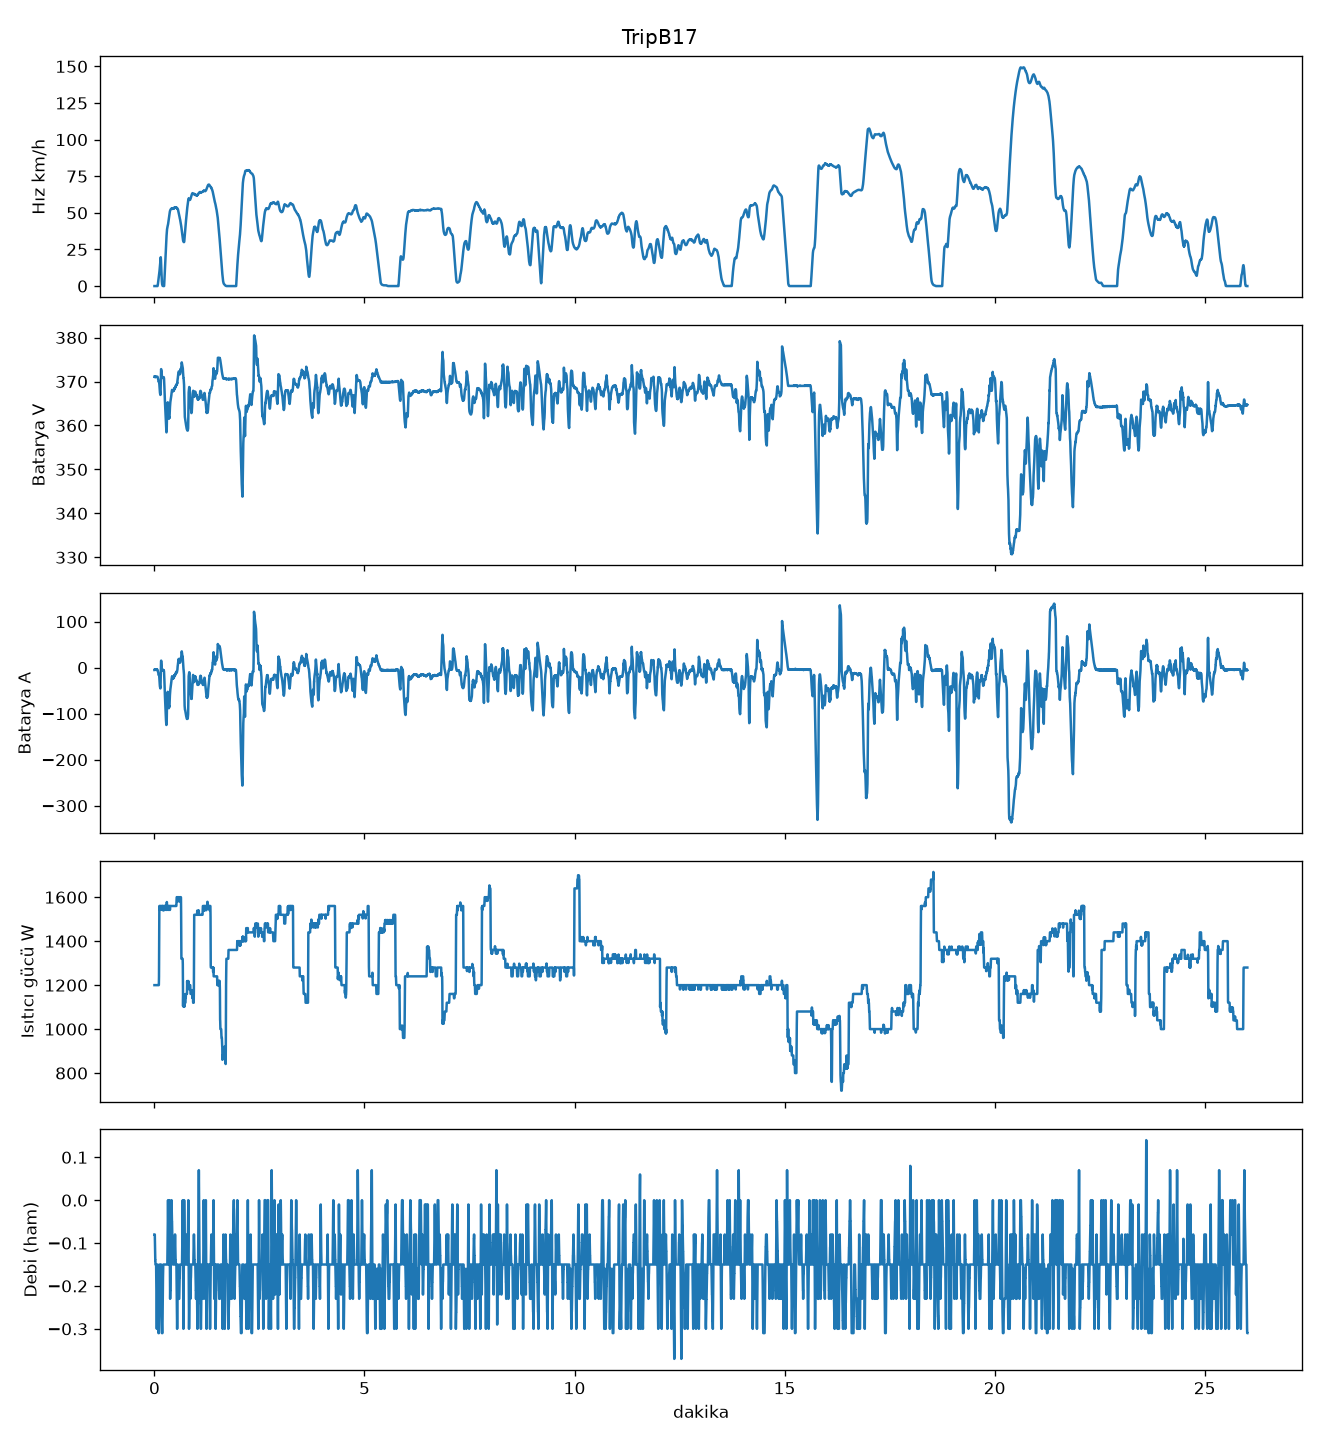
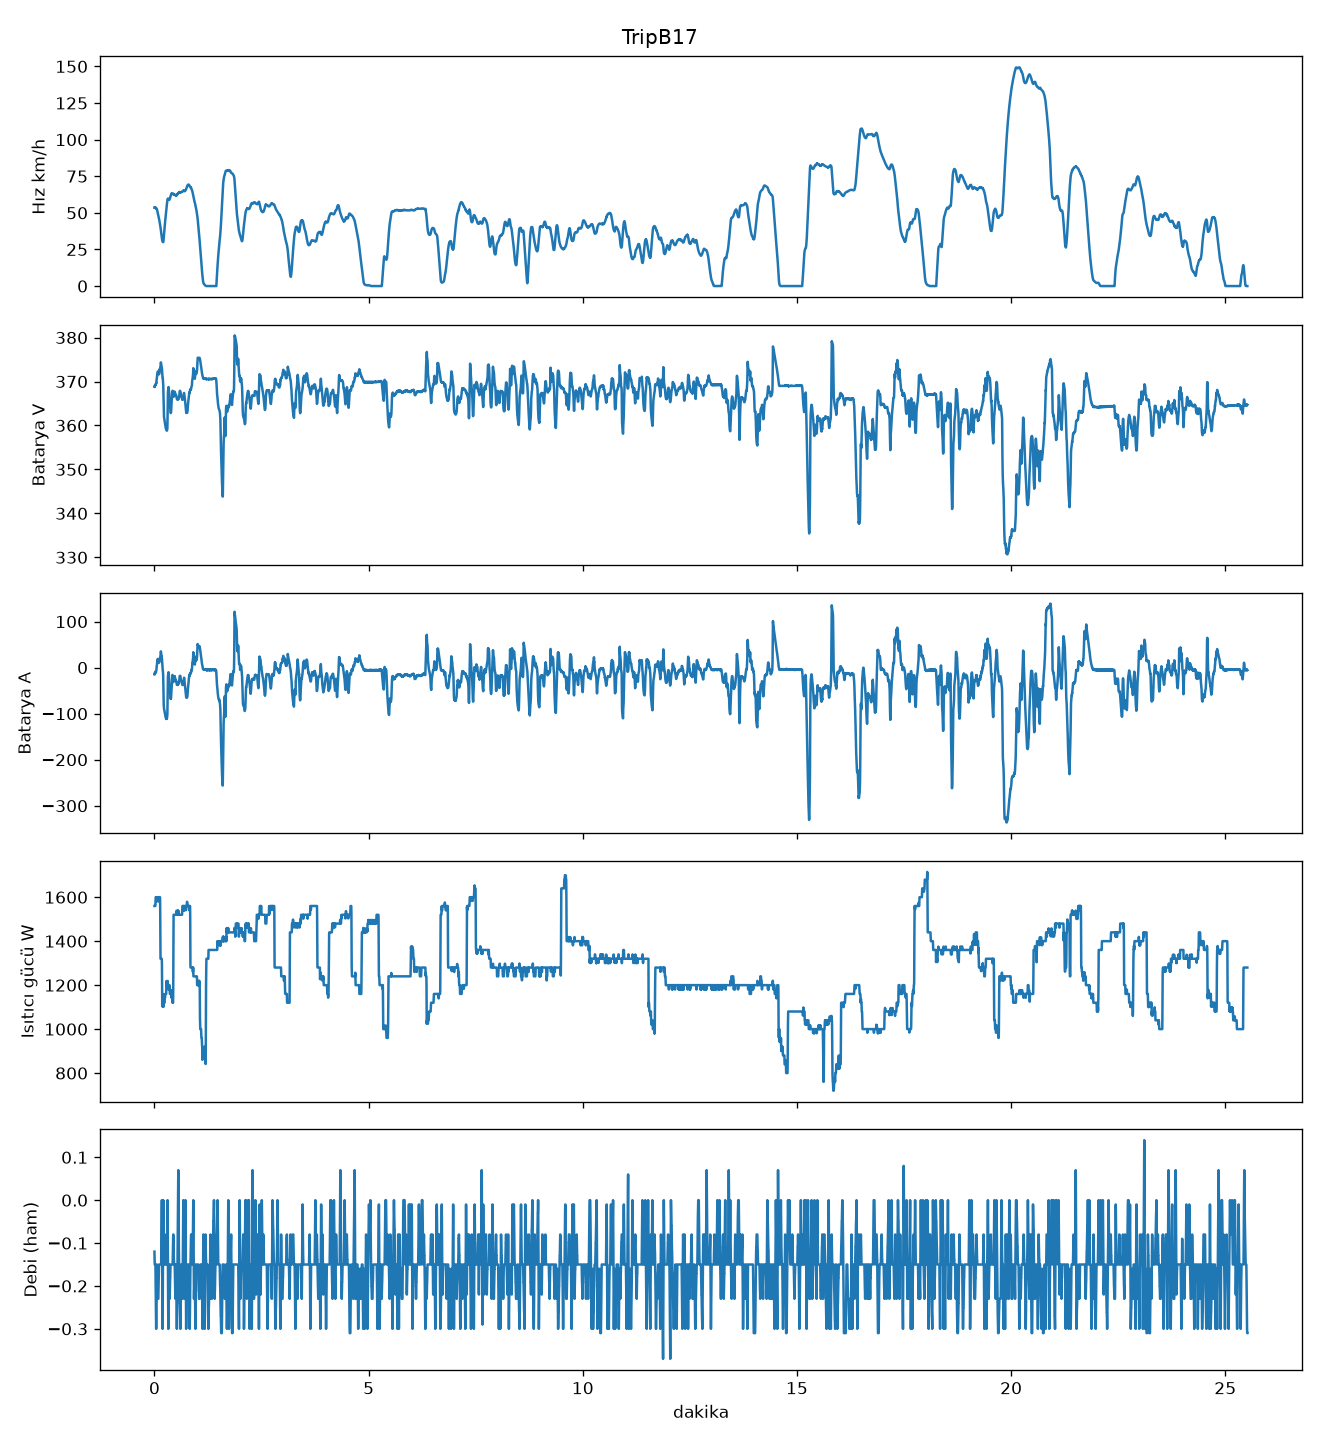
B35 ve

diff --git a/find_pump_off.py b/find_pump_off.py
@@ -1,0 +1,10 @@
+import glob
+import os
+import pandas as pd
+
+for f in sorted(glob.glob("data/clean_B/*.csv")):
+    d = pd.read_csv(f, sep=";", encoding="utf-8")
+    m = d["Coolant Volume Flow +500 [l/h]"] < -100     # pompa kapalı (gerçek debi ≈ 0)
+    if m.any():
+        t = d.loc[m, "Time [s]"] / 60
+        print(f"{os.path.basename(f)}  {m.sum()} satır  dk {t.min():.1f} - {t.max():.1f}")

diff --git a/prepare_data.py b/prepare_data.py
@@ -10,6 +10,7 @@ BAS_KES_DK = {                             # başında bozuk bölüm olan dosyal
 SON_KES_DK = {                             # bozuk bölümü başlayan dosyalar
     "TripB04.csv": 15.0,
     "TripB09.csv": 45.0,
+    "TripB35.csv": 22.5,                   # sürüş sonu, pompa kapanıyor
 }
 MIN_ROWS = 3000                            # 0,1 sn aralıkla 5 dakika
 
